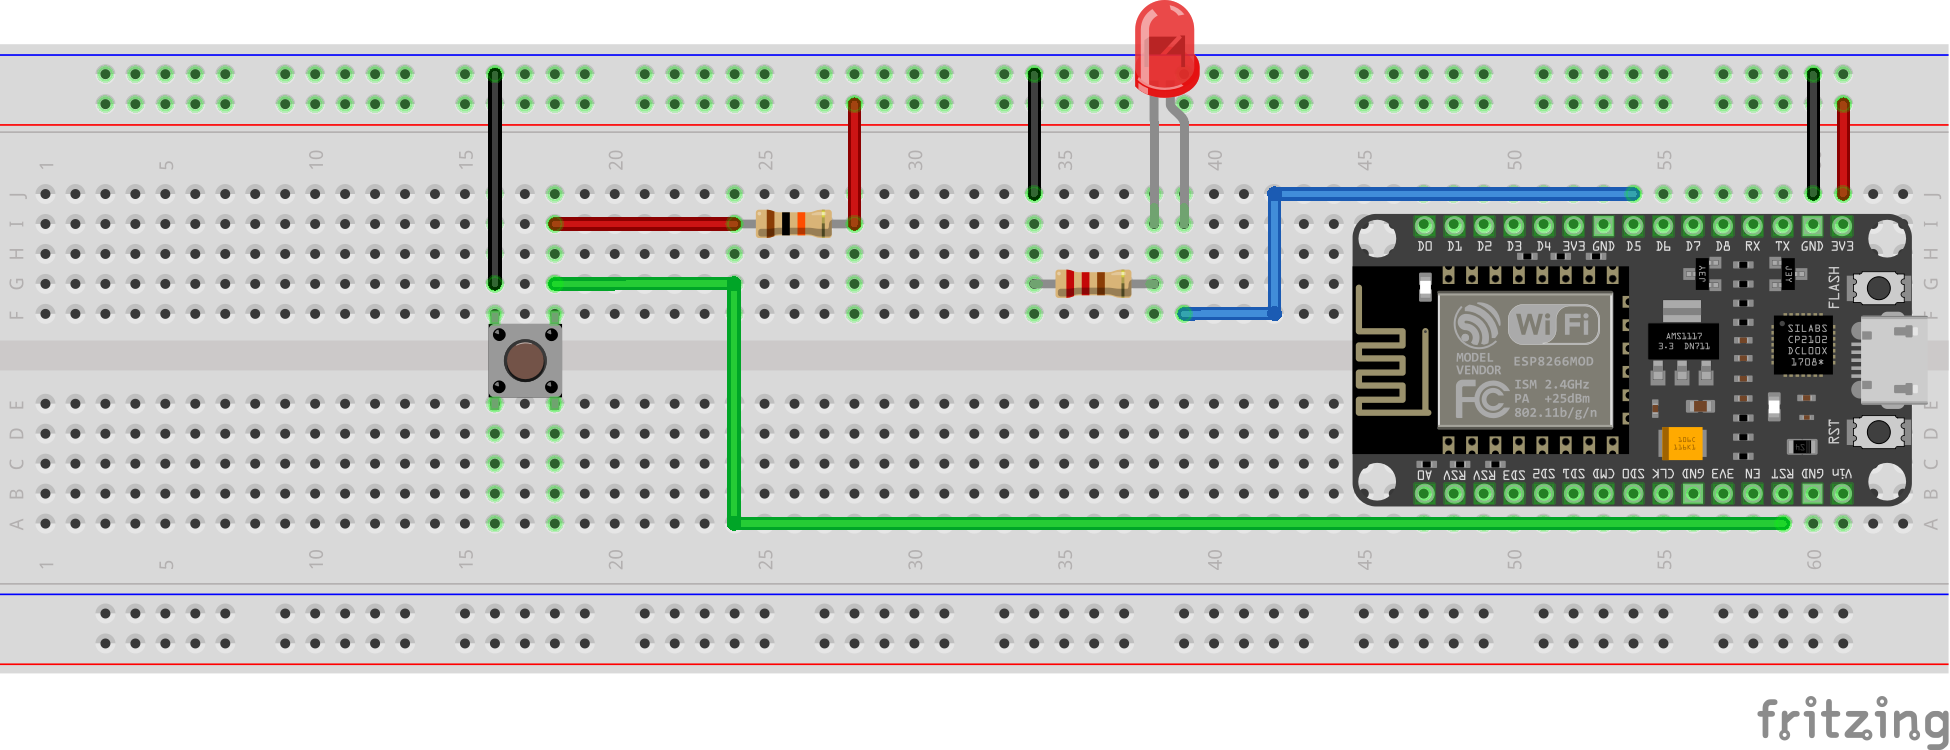
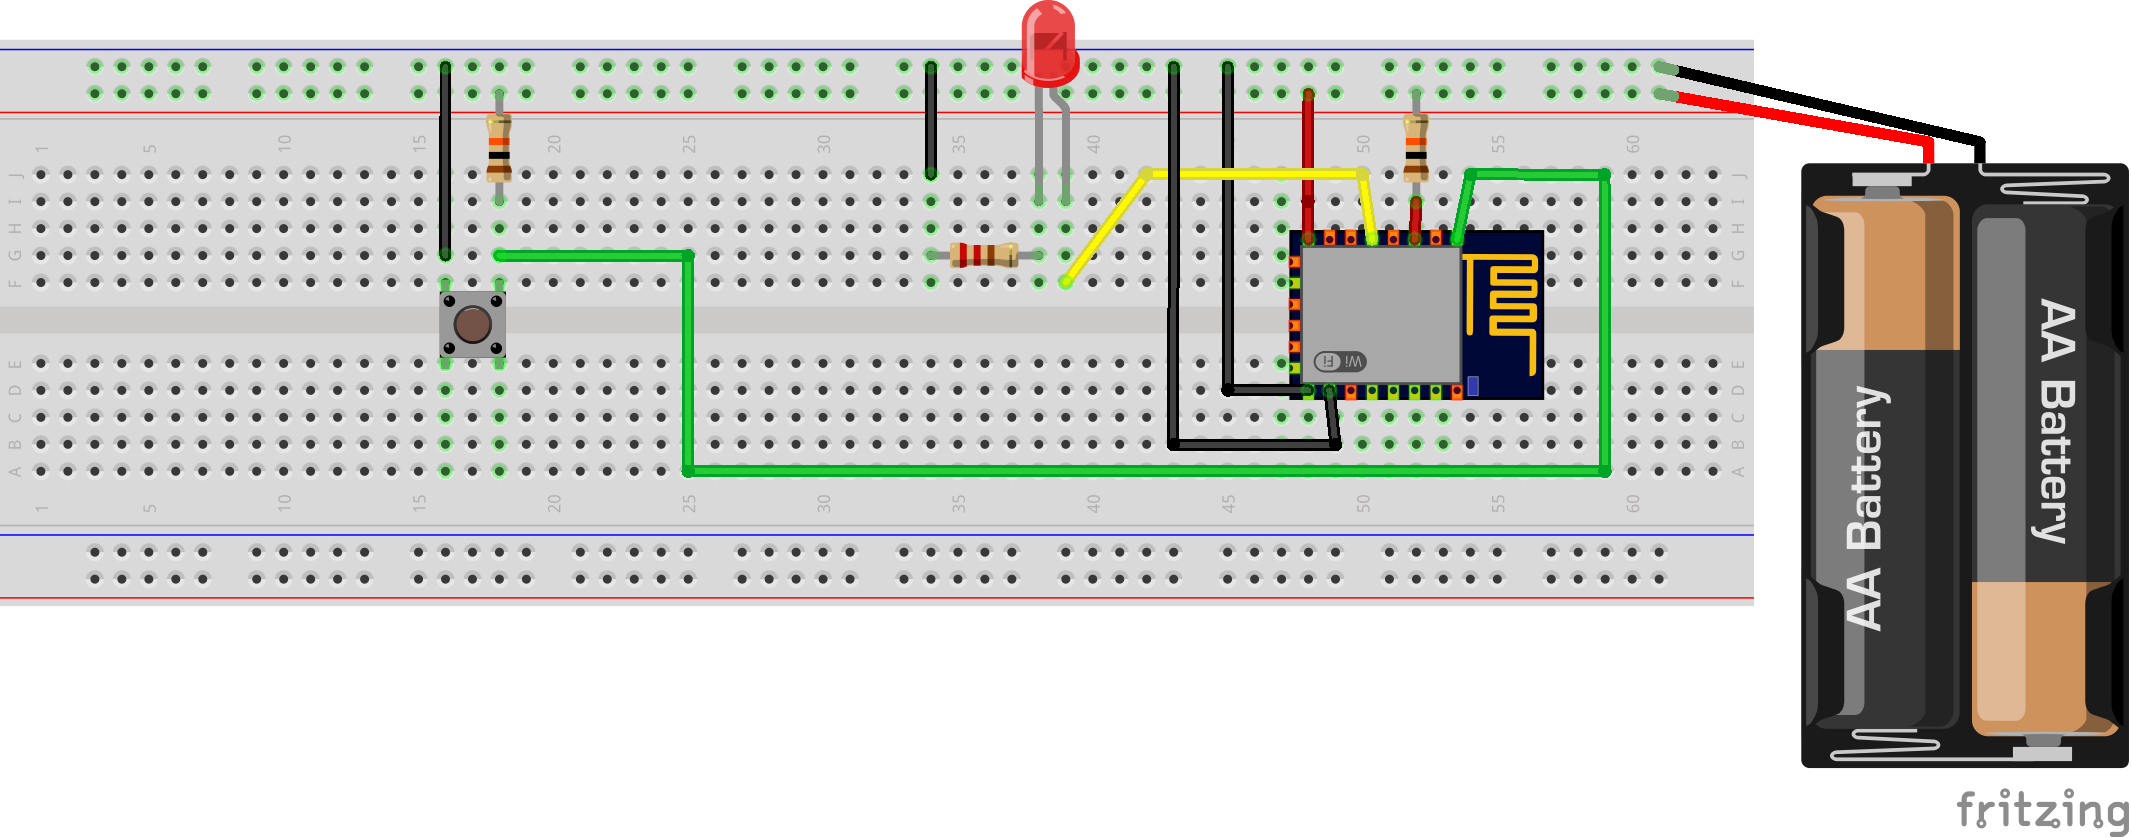
feat: enhanced description and improved images

diff --git a/src/devices/remote_button/README.md b/src/devices/remote_button/README.md
@@ -122,7 +122,7 @@ Required parts:
 - esp12-s (other esp8266 boards might work) ~ 1$
 - pushbutton ~ 0.15 $
 - 2x 1.5V battery (~2$ per year) or 1.2V nimh rechargeable battery (~8$ once but needs to recharge)
-- 3d printed casing [Example Case](TBA) ~ 3$
+- 3d printed casing [Example Case](https://www.thingiverse.com/thing:7256279) ~ 3$
 - 10k resistor ~ 0.01$
 - few wires ~ 0$
 - metal parts for bateries ~ 0$
@@ -134,6 +134,31 @@ Optional Parts:
 - JST connectors or similar
 - LED Diode
 - 220 ohm resistor
+- 2 x 10k ohm resistors
+
+#### Assembly steps
+
+1. Study wiring schema.
+2. Connect 10K ohm resistor / wire between VCC and EN pins on board.
+3. Connect VCC pin to battery + with wire (few centimeters).
+4. Connect GND pin to battery - with wire (few centimeters)
+5. Connect GPIO15 pin to GND pin.
+6. Connect GND pin and one side of push button with wire (few centimeters).
+7. Connect RST pin and second side of push button with wire (few centimeters).
+8. OPTIONAL - Connect VCC pin and RSt with 10k Ohm resistor
+9. OPTIONAL - Create 2 pin JST connector with short wires
+10. OPTIONAL - Connect one wire of connector to GND and second to GPIO14.
+11. OPTIONAL - Connect LED with second part of JST connector - REMEMBER to properly solder diode
+
+__Note:__ LED is intended to be used as a debug information.
+
+Wiring example:
+![Soldered](../../../assets//remote_button/Soldered.jpg)
+
+Optional Steps
+
+
+You can see how this button looks in my case on [Thingiverse](https://www.thingiverse.com/thing:7256279) where you will find example casing for button.
 
 #### Power calcuations
 
@@ -142,10 +167,19 @@ Optional Parts:
 - Power used when in deep sleep __20 µA__
 - Rechargable batteries 1.2V __750 mAh__ - so effective storage is __450 mAh__
 
+One click usage should be around `300 * 10 / 3600 = 0.83 mAh`
 One day uage is `0.83 * 4 + 0.0002 * 86360 / 3600 = 3.34 mAh`
 Working for: `450 / 3.34` ~ 135 days
 
 For 1.5V with capacity 1500 button will work for around a year.
+
+Also i conducted some test with multimeter:
+
+- in deep sleep mode current was around __50 µA__
+- when invoking main job of the button current was __70 mA__
+- in my case on average button does it work in 7.5 second not 10 seconds
+- installing optional LED increases deep sleep current to __200 µA__
+- second measured value is more important so actual time working on batteries can be 4 times bigger (4 years on AAA 1.5V sound beautifull)
 
 #### Uploading code and configuration
 
@@ -159,7 +193,7 @@ That's what I assume you will do.
   - if using `ssl` repete previous steps, but change `filename` and paste content of your CA certificate (`-----BEGIN CERTIFICATE----- MIIFazCCA... -----END CERTIFICATE-----`)
 - how you can open `src/devices/remote_button/remote_button.ino` and upload it inside the board
 
-Simplified schematic:
+After uploading all necesary files best is to test this solution on beradbord, if everything works you can move to creating final device. Simplified schematic:
 
 ![image](../../../assets/remote_button/RemoteButtonWiring.png)
 
@@ -169,5 +203,5 @@ __Note:__ Node mcu boards are good for development so when building final device
 
 - [allowing Over the air update](https://randomnerdtutorials.com/esp8266-nodemcu-ota-over-the-air-arduino/)
 - web server for simple configuration update
-
-TBA
+- place for diode in case
+- using transistor for LED - using LED increases battery drain
